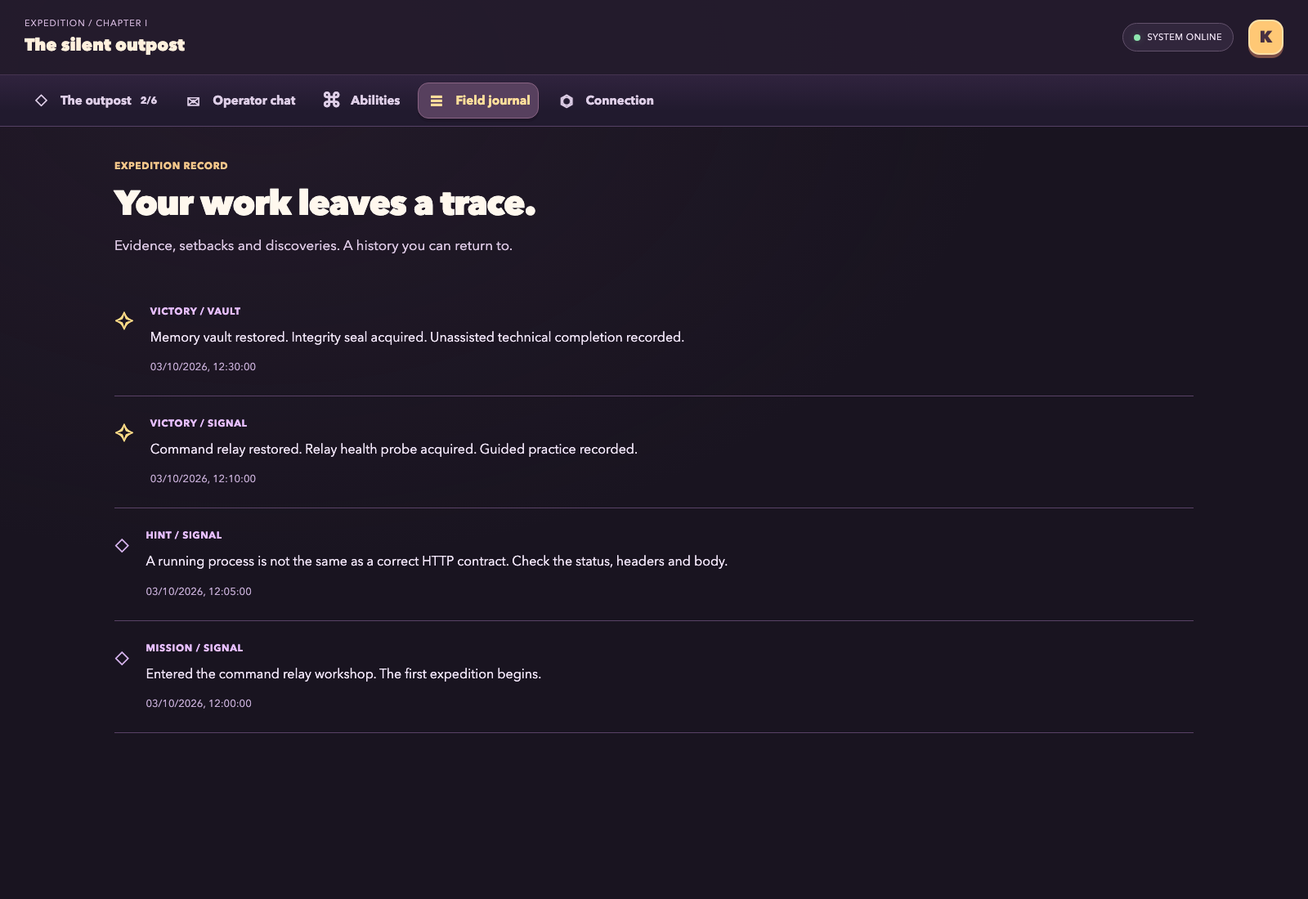
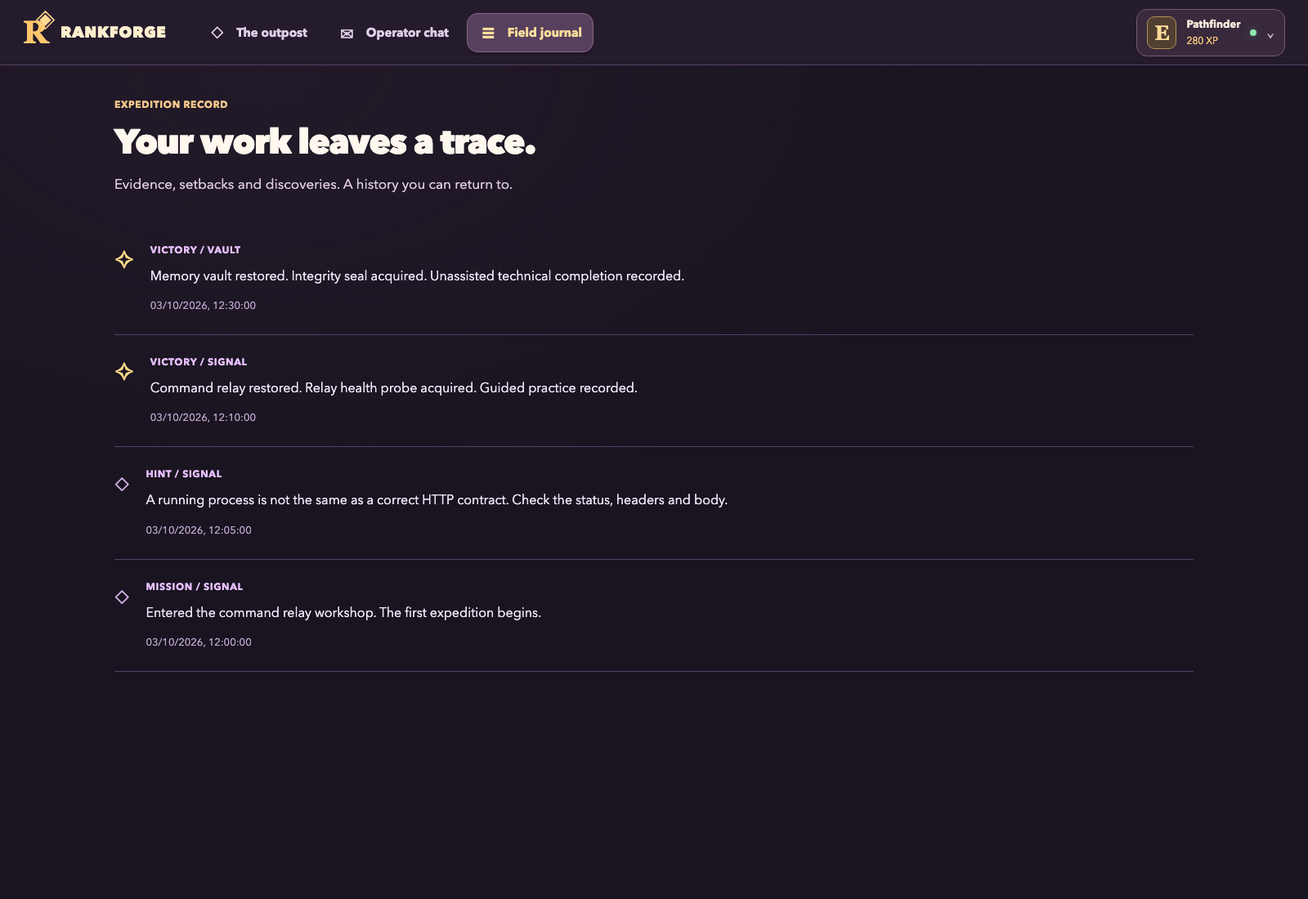
docs: record campaign acceptance and refresh the player guide

diff --git a/scripts/capture-docs.ts b/scripts/capture-docs.ts
@@ -8,6 +8,7 @@ import { createApp } from '../server/app.js'
 import { root } from '../server/labs.js'
 import { missions } from '../shared/content.js'
 import type { MissionView, Snapshot } from '../shared/types.js'
+import { currentContractVersion } from '../shared/contracts.js'
 
 // Documentation fixtures only. No account, learner files or existing conversation is read.
 const time = '2026-10-03T12:30:00Z'
@@ -17,7 +18,7 @@ const demo: Snapshot = {
     status: index < 2 ? 'completed' : index < 4 ? 'available' : 'locked',
     workspace: index < 2 ? `/demo/workspaces/${mission.id}` : null,
     hintsUsed: index === 0 ? 1 : 0,
-    checks: index === 0 ? { passed: true, supported: true, checkedAt: time, output: '', checks: [
+    checks: index === 0 ? { passed: true, supported: true, contractVersion: currentContractVersion, checkedAt: time, output: '', checks: [
       { name: 'GET /health returns the relay contract', passed: true, detail: 'Demonstration result: HTTP 200 and the expected JSON.' },
       { name: 'Query parameters preserve the route', passed: true, detail: 'Demonstration result: /health?probe=1 remains a health request.' },
       { name: 'Unknown routes return 404', passed: true, detail: 'Demonstration result: an unknown path is not reported as healthy.' },
@@ -52,7 +53,9 @@ const address = reservation.address()
 if (!address || typeof address === 'string') throw new Error('Could not reserve a documentation port.')
 const port = address.port
 await new Promise<void>((resolve) => reservation.close(() => resolve()))
-const { app } = await createApp({ home, port, launchEditor: async () => { throw new Error('Documentation capture must not open an editor.') } })
+const { app, store } = await createApp({ home, port, launchEditor: async () => { throw new Error('Documentation capture must not open an editor.') } })
+for (const id of ['signal', 'vault']) store.saveCheck(id, { contractVersion: currentContractVersion, checkedAt: time, passed: true, supported: true, output: '', checks: [{ name: 'Documentation fixture', passed: true, detail: 'Synthetic illustration, not a live evaluation.' }] })
+demo.progression = store.snapshot(demo.connection).progression
 let browser: Awaited<ReturnType<typeof chromium.launch>> | undefined
 try {
   const url = await app.listen({ host: '127.0.0.1', port })
@@ -71,19 +74,21 @@ try {
   await page.screenshot({ path: path.join(output, 'outpost.png') })
   await page.getByRole('button', { name: '▦ Cards', exact: true }).click()
   await page.getByLabel('Expedition overview', { exact: true }).screenshot({ path: path.join(output, 'cards.png') })
-  await page.getByLabel('Expedition controls').screenshot({ path: path.join(output, 'controls.png') })
-  await page.locator('.mission-panel').screenshot({ path: path.join(output, 'quest.png') })
+  await page.locator('.topbar').screenshot({ path: path.join(output, 'controls.png') })
+  await page.locator('.mission-panel').screenshot({ path: path.join(output, 'quest.png'), style: '.topbar { visibility: hidden; }' })
   await page.getByRole('button', { name: 'Operator chat', exact: true }).click()
   await expect(page.locator('.conversation table')).toBeVisible()
   await page.screenshot({ path: path.join(output, 'chat.png') })
-  await page.getByRole('button', { name: 'Abilities', exact: true }).click()
-  await expect(page.getByRole('heading', { name: 'Earned through experience.' })).toBeVisible()
+  await page.getByLabel('Player profile', { exact: true }).click()
+  await page.getByRole('button', { name: 'Skills & rewards', exact: false }).click()
+  await expect(page.getByRole('heading', { name: 'Skills & rewards' })).toBeVisible()
   await page.screenshot({ path: path.join(output, 'abilities.png') })
   await page.getByRole('button', { name: 'Field journal', exact: true }).click()
   await expect(page.getByRole('heading', { name: 'Your work leaves a trace.' })).toBeVisible()
   await page.screenshot({ path: path.join(output, 'journal.png') })
   demo.connection.signedIn = false
   await page.reload()
+  await page.getByLabel('Player profile', { exact: true }).click()
   await page.getByRole('button', { name: 'Connection', exact: true }).click()
   await expect(page.getByRole('button', { name: 'Connect ChatGPT', exact: true })).toBeVisible()
   await page.screenshot({ path: path.join(output, 'connection.png') })

diff --git a/docs/COURSE-ROADMAP.md b/docs/COURSE-ROADMAP.md
@@ -8,11 +8,11 @@ There are **86 missions**: **68 core**, **12 optional foundations**, and **6 opt
 
 | Status at this planning baseline | IDs | Count | Meaning |
 | --- | --- | --- | --- |
-| Implemented labs | I01–I06 | 6 | Existing `signal`, `vault`, `gateway`, `echo`, `ledger`, `recovery` workspaces/checkers; implementation is not proof of fairness, mastery or live tutor quality |
-| Next candidate block, unimplemented | D01–D03 | 3 | Small requirements, capacity and contract labs recommended for authoring after the UI and six-mission audit have their own acceptance evidence |
-| Remaining proposal, unimplemented | F01–F12, D04–D06, B01–B08, T01–T04, S01–S06, O01–O08, L01–L08, A01–A08, W01–W10, M01–M06, C01–C04 | 77 | No new starters, validators, unlocks, language routing or integrated campaign are supplied by this document |
+| Implemented catalog labs | I01–I06, D01–D03 | 9 | Original outpost plus `briefing`, `capacity`, `contract`; see the actual acceptance records, not a mastery claim |
+| Next design block, unimplemented | D04–D06 | 3 | Service boundaries, an evidence-backed decision and a changed requirement; free architecture judgement stays formative |
+| Remaining proposal, unimplemented | F01–F12, B01–B08, T01–T04, S01–S06, O01–O08, L01–L08, A01–A08, W01–W10, M01–M06, C01–C04 | 74 | Proposed authoring units, not shipped labs |
 
-All 80 additions need implementation and validation. The UI work and fairness audit are separate workstreams; this document does not claim they have passed. Existing acceptance records describe earlier runs, not a fresh run of this catalog. The planning IDs do not rename runtime missions or modify learner progress.
+77catalog missions still need implementation and validation. The separate optional `http-trial` implements HTTP transfer after Signal+Gateway and is not counted among the86catalog entries. It does not gate the main route. See [Acceptance](ACCEPTANCE.md), [guild evidence](ARCHITECT-ACCEPTANCE.md), [mission audit](MISSION-AUDIT-2026-10-06.md) and [reward/trial evidence](PROGRESSION-ACCEPTANCE.md) for observed results. Planning IDs do not rename runtime missions or reset progress.
 
 The target learner has substantial iOS experience and some API/SQL/backend experience. Python, deeper database work, quantitative reasoning and operations must be diagnosed separately. New programmers receive the optional entry workshop, with explanations and small guided attempts; they are not expected to infer SQL, Python or terminal skills from a later failure. All player-facing material is English. A lower English band changes scaffolding, not engineering expectations or the correctness contract.
 
@@ -59,7 +59,7 @@ The order deliberately introduces contracts and a simple design before more back
 
 Each row provides an objective, a concrete artifact and an executable verification target. The final column contains **Alt** (valid alternative), **Fail** (negative/failure evidence) and **Transfer** (a changed input or situation). Transfer cases are authored under the same visible contract or introduced as a new ticket with an explicit contract delta; they never add hidden requirements after submission.
 
-For planned missions, the checks are a specification for future checkers, not results. Except for I01–I06, no row is runnable yet. For existing missions, the table summarizes the intended public behavior and acceptance direction; the actual source, published brief and fairness-audit evidence must resolve any mismatch. Design review notes are formative wherever a row says `review`; only the stated executable claim receives a deterministic verdict.
+For planned missions, the checks are a specification for future checkers, not results. I01–I06 and D01–D03 now have runnable labs. The table summarizes intended public behavior; source, published briefs and release evidence resolve any mismatch. Design review notes are formative wherever a row says `review`; only the stated executable claim receives a deterministic verdict.
 
 ## Entry workshop — optional foundations (12)
 
@@ -95,7 +95,7 @@ Language goal: ask a precise question, distinguish "saved" from "running", and r
 
 The added F dependencies describe entry capabilities for the proposed course, not new locks on current saves. Language goals remain symptom/action/evidence, request path, cause/effect, expected/observed and handover. Fairness review must separate required outcomes, deliberate starter defects and optional learning material in all six labs.
 
-## II — The architect's guild (6 planned)
+## II — The architect's guild (3 implemented, 3 planned)
 
 | ID / mission | Prerequisites | Objective | Artifact | Verification | Alternative, failure and transfer evidence |
 | --- | --- | --- | --- | --- | --- |
@@ -237,7 +237,11 @@ The capstone is a bounded vertical slice of the same system, not a request to bu
 
 Language goal: give a concise handover and answer a challenge using evidence. Rank records demonstrated capabilities and support used, not professional seniority. An unavailable human design reviewer leaves review pending; it does not make model praise a certificate or prevent an already verified technical result from being recorded.
 
-## Next candidate block
+<a id="next-candidate-block"></a>
+
+## D01–D03 authoring specification (now implemented)
+
+The following describes the specification used to author the three implemented guild labs. Runtime interfaces and exact bounds are published in their field manuals. D01 checks structural traceability; D02 checks arithmetic; D03 checks an actual consumer probe. They do not automatically certify free-text architecture quality. Next catalog authoring starts at D04–D06.
 
 Recommend **D01 → {D02, D03}**, three small independently executable labs using Python standard library, local JSON and supplied loopback HTTP fixtures. They extend the first chapter into system design without requiring a subjective architecture judge, a new backend framework or heavy infrastructure. F04/F05/F10 are optional just-in-time support for file/test/units gaps; they are not compulsory repeats for the owner. Scaffold the runner and file formats so the problem is requirement reasoning, arithmetic or contract checking, not guessing how to launch a lab.
 
@@ -338,4 +342,4 @@ The following ten sources were read via background HTTP/documentation tools on 2
 
 The Council of Europe descriptor page returned HTTP 403 in this session; the accessible Europass descriptor page above was used instead. Reference coverage is not an endorsement and no source exercises or proprietary course text have been copied. Before redistributing external examples, datasets or diagrams, review their specific licenses; this roadmap authors its own missions rather than treating linked teaching materials as reusable assets.
 
-Unresolved implementation work includes all 80 new labs, real resource profiles, diagnostic/skip routing, safe artifact continuity, architecture-evidence states and the future release records. Beginner pacing, full-course effectiveness, tutor accuracy, English calibration and live ML utility have not been measured. There is no claim of new build/test/E2E runs, live provider evaluation, completed fairness audit or production deployment from this documentation-only work.
+Remaining work includes77catalog labs, their resource profiles, diagnostic/skip routing, safe artifact continuity and richer architecture-review states. Beginner pacing, full-course effectiveness, tutor accuracy, English calibration and live ML utility have not been measured. The original roadmap was a documentation-only proposal; the later implemented slice has its own linked build/test/E2E evidence. There is no production deployment or live provider-quality claim.

diff --git a/docs/SESSION-2026-10-06.md b/docs/SESSION-2026-10-06.md
@@ -2,6 +2,10 @@
 
 ## Resume here
 
+Latest checkpoint: **05:48 MSK**. Code checkpoint `e1d9a9efc044e049a3692da549d1dc458307321b`; all current slice implementation and acceptance are complete. Build +152/152 Node tests +9/9 headless E2E passed; Linuxarm64 Node24.21.0/Python3.11.2 build+152tests passed. Preview is running on4173, PID67130, with10quests and the infographic at `/progression.html`. Old6mission state,120XP and25exchanges were compared before/after restart and remained identical; no live tutor request was sent. Refresh the owner tab to load the new bundle.
+
+Next catalog work: D04–D06 (boundaries, ADR/experiment, changed requirements), followed by the service workshop;77catalog missions remain planned. The reward infographic has30proposals; current shipped rewards are the smaller chip/frame/bonus slice. Future harness spending, deeper skill tiers, voice and live tutor-quality calibration are not implemented or claimed.
+
 Started 01:55 MSK in `~/rankforge`, branch `main`, baseline `2525e01`.
 Pre-existing untracked `reports/` and `research_notes/` belong to the owner. Pre-existing `node_modules/`, `dist/` and `extension/dist/` support the local application; preserve them. Learner saves/workspaces are outside the checkout and must not be reset.
 
@@ -28,3 +32,27 @@ The owner requested autonomous work, in this order:
 - `npm run docs:capture` PASS with eight synthetic-only screenshots. Map, cards, controls, mission and chat visually inspected. Documentation now describes explicit editor opening and the current-contract source.
 - Audit corrections and scoped evidence: [MISSION-AUDIT-2026-10-06.md](MISSION-AUDIT-2026-10-06.md). Real Docker/nginx acceptance exercised seven configurations; both valid routing alternatives passed nine checks, wrong candidates were rejected, owned resources removed.
 - Whole-course proposal written in [COURSE-ROADMAP.md](COURSE-ROADMAP.md): 86 catalog missions, 68 core + 12 optional foundations + 6 optional ML. Existing six remain the implemented baseline. Next: commit checkpoints, then author the three-mission requirements/capacity/contract block with independent executable checks.
+
+### 04:10 MSK — owner feedback and new scope
+
+- Saved checkpoints: `8c528df` mission contracts, `ab7e277` first UI layout, `82c07d1` roadmap/plan. A cold review found remaining deferred-FK/truthy-input holes; fixed in working files with regression evidence in the audit. It also found legacy evidence presented as current and navigation autofocus/hint regressions; UI focus/hint fix is in the current build, evidence versioning remains to do.
+- Owner rejected the middle-page navigation after trying it: it separates the map from the mission. Current working UI puts stable navigation at the top and compact rank/XP/profile on the right; map is directly followed by mission. `npm run build` and six headless E2E PASS. Preview bundle rebuilt for the owner; new server implementation changes need a deliberate restart later.
+- Owner clarified that abilities must be a deep gradual progression mechanic, not large cards claiming mastery after one quest. Requests: comprehensive visual infographic of reward/skill ideas with practical/visual effects; implement rewards and skill progression. Chip idea is a reserve of tutor charge, with future harness controlling model expense/answer length. No model-spending harness is requested in this slice.
+- D01–D03 standalone authored in new files, 46 tests passed on Python3.14/3.11; NOT yet registered in actual app. Cold review found HTTP id/item checks, fractional capacity inputs, chunked request bodies and timeout-parameter gaps. Repair before integration. `docs/ARCHITECT-ACCEPTANCE.md` holds the exact handoff and prior failed attempt.
+- Next work: deliver infographic, finalize revised navigation, integrate corrected three-lab block, then first real reward/skill/bonus-quest slice, full checks and checkpoints. Preserve `reports/`, `research_notes/`, existing dependencies/builds and all learner artifacts.
+
+### 05:13 MSK — infographic, registered quests and real reward mechanics
+
+- `public/progression.html`: 30 ideas/6 families; interactive8-step example/3skill tracks/bonusroute/cosmeticpreview. Standalone10/10 checks, zero external requests, screenshots inspected. Actual service CSP uses only that page's script hashes; normal app CSP stays unchanged. HTTP-hosted interaction passed E2E.
+- Registry now has nine core missions (original6 + guild3) and one optional HTTP trial. Real API and headless browser loops passed all four new starters/fixes; bonus unlock/current-contract evidence/repeat awards/equip/reload verified. Node149/149; first combined command hit120s after Node success, so E2E was run separately8/8, not inferred.
+- Rewards:4branches×3boundedcheckpoints, finite13chips/140gamecharge across current catalog,2equippableframes,HTTPApplied unlocks real paginationtrial. No modelchargeconsumption. Previouscompletion/XP retained; oldchecks displayed as historical without current-objective ticks. Prompt receives currentcontract and legacy-evidence flag. Quota pauses only tutoring; local preparation/checks/static hints continue and preserve pending answer.
+- Independent review closed4guild boundaries (id/item/field checks,fractionalbytes,chunkedPOST,timeoutbudget) and2firstchapter holes (deferredFK,truthywrongrecordshapes). HTTPtrial final3review boundaries fixed; targeted34/34PASS. Latest focus/hint/legacyUI regressions now have a new E2E case awaiting final run.
+- Remaining current slice: final integration suite, Linux check, freshdocs/screenshots,checkpointcommits, restart ownedpreview ifidle, vaultsave/cleanup. Fullroadmap beyondthese10runtimequests remains proposed; do not claim86shipped.
+
+### 05:48 MSK — verified release and preview updated
+
+- Final current source: build PASS,152Node tests PASS,9headlessChromiumE2E PASS. Full real gateway acceptance was already complete; no extra unrelated Docker services or GUI were touched. Linuxarm64 same-source build+152tests PASS with Node24.21.0/Python3.11.2 under2CPU/2GiB. Owned image tag/container/build context removed.
+- Eight documentation screenshots recaptured from synthetic data. Map, compact nav, current workspace and progression were visually inspected; the focused mission screenshot suppresses the sticky header solely during capture so it cannot obscure the panel.
+- Preview migration: no pending/processing jobs before graceful termination of ownedPID28818. NewPID67130 serves current app+infographic200 with page-scoped script hashes. Original learner mission fields and full25exchange array match before/after, XP stays120; no new skill rewards were fabricated from legacy results.
+- Browser test evidence moved outside checkout to `/var/folders/tj/_9g91tx120qfjzwmw5zxc76w0000gp/T/opencode/rankforge-final-20261006-rmkQ5h/browser`. Session-created `test-results` removed. Pre-existing dependencies/builds retained for requested running preview. `reports/` and `research_notes/` remain the owner's untouched untracked directories.
+- Local commits: `8c528df` initial mission audit; `ab7e277` full-width switchable overview; `82c07d1`86-mission roadmap; `d4efe28`30-idea infographic; `7af7df3`deferred/schema boundary follow-up; `e1d9a9e`guild/trial/skills/rewards/versioned evidence/topnav. Documentation handoff follows separately. No push or PR was performed.

diff --git a/docs/TOUR_RU.md b/docs/TOUR_RU.md
@@ -10,13 +10,14 @@
 
 - **Карта во всю ширину:** здания соответствуют заданиям. Связи показывают последовательность и зависимости. После успешной проверки сектор меняется визуально.
 - **Map / Cards на самой карте:** два представления одних заданий. Они заменяют друг друга; выбранный вид сохраняется после перезагрузки.
-- **Карточка персонажа и меню ниже карты:** ранг и опыт за выполненные задания. Это игровые показатели, а не профессиональный грейд.
+- **Навигация сверху, компактный профиль справа:** ранг и опыт всегда под рукой, а подробности и **Skills & rewards** находятся в раскрывающемся меню. Это игровые показатели, а не профессиональный грейд.
 - **The outpost:** возвращает на карту.
-- **Рабочее пространство ниже меню:** нажатие на сектор или **View quest** переводит к условиям выбранного задания. Даже закрытую миссию можно предварительно прочитать; VS Code открывается отдельной кнопкой.
+- **Рабочее пространство сразу ниже карты:** нажатие на сектор или **View quest** переводит к условиям выбранного задания. Даже закрытую миссию можно предварительно прочитать; VS Code открывается отдельной кнопкой.
+- **Explore:** переключает главы. Бонусный HTTP trial показан отдельной веткой, основной маршрут от него не зависит.
 
 ![Альтернативное представление тех же заданий карточками](images/cards.png)
 
-![Профиль, навигация и языковой прогресс ниже обзора](images/controls.png)
+![Постоянная навигация и компактный профиль](images/controls.png)
 
 В демонстрационном сохранении выполнены две миссии. В твоей первой сессии база ещё будет ждать восстановления.
 
@@ -50,15 +51,17 @@
 
 Наставник видит сохранённые текстовые файлы учебной папки с путями и временем сохранения. Несохранённый буфер редактора и живой терминал ему не видны: сохрани код и приложи относящийся к вопросу вывод. Указания и команды находятся в разных визуальных блоках, чтобы случайно не вставить пояснение в терминал.
 
-## 4. Abilities — приобретённые умения и дальнейший путь
+## 4. Skills & rewards — постепенный прогресс и его последствия
 
 ![Экран навыков с артефактами и видами подтверждения](images/abilities.png)
 
-Каждая карточка связывает игровой артефакт с практическими навыками. Она показывает, было ли выполнение с записанной помощью или без неё. Это история наблюдений, не экзамен с контролем всех внешних источников.
+Ветки связывают разные проверенные задания. Один исправленный HTTP endpoint — первый результат, а не освоение HTTP. Связка Signal и Gateway открывает HTTP Applied, рамку и дополнительное испытание. Панель показывает, какой результат подтверждён, что требуется дальше и какие награды получены. Помощь не уменьшает награду; самостоятельность отмечается отдельно в пределах записанной помощи.
+
+Чипы хранят игровой заряд для будущего harness; сейчас он не расходуется. Повторный Verify не создаёт новые чипы. Рамки можно экипировать, снять и сохранить выбор после перезагрузки. История отдельных завершений убрана в свёрнутый **Practice record**. Старые completion/XP сохраняются; для новых skill-checkpoints нужны проверки текущего контракта.
 
 Ниже находится языковой прогресс и будущие главы. Уровень языка растёт отдельно от технической сложности. Сейчас реализована письменная практика; чтение текста не засчитывается как проверка произношения или понимания речи на слух.
 
-Раздел будущих глав включает system design, нагрузку, эксплуатацию, Kafka, Data Engineering и базовый ML. Пометка **Curriculum planned** означает план, а не уже доступную игровую миссию.
+Вторая глава уже содержит три задания: требования, расчёт нагрузки и проверку HTTP-контракта. Свёрнутый список дальнейших глав остаётся планом. Отдельная [интерактивная инфографика](../public/progression.html) показывает30идей наград и пример главы из8заданий; это эскиз, текущая первая глава содержит6основных заданий и optional trial.
 
 ## 5. Field journal — история твоей работы
 

diff --git a/docs/ACCEPTANCE.md b/docs/ACCEPTANCE.md
@@ -1,5 +1,19 @@
 # Acceptance record
 
+## Current checkpoint — 2026-10-06
+
+- macOS arm64 / Node25.8.1 / Python3.14.5: fresh `npm run build` PASS, **152/152 Node tests PASS**, **9/9 headless Chromium E2E PASS**, 0 skips. The initial149-test run exceeded its enclosing120-second shell deadline after Node completed; E2E was then run separately. Final152+9 ran to completion with a300-second deadline.
+- Linux arm64 / Node24.21.0 / Python3.11.2: the same production build and **152/152 Node tests PASS**, 0 skips, in the existing reproducible Docker recipe with2CPUs/2GiB. Only required source paths were copied to the temporary build context; owner research, saves and credentials were excluded. The owned image tag and `--rm` containers were removed. No claim of fresh amd64, desktop Linux auth/editor or Linux browser acceptance.
+- UI: full-width exclusive Map/Cards, persistent choice, chapter selection, preview without IDE launch, fixed top navigation and compact right-hand profile. Selected mission directly follows the map. Checked1024/1280/1600 without overflow, current/legacy evidence distinction, delayed-check focus protection, hint/draft/history retention and short input viewports.
+- Four new real labs: requirements traceability, unit-aware capacity, consumer HTTP probe and optional HTTP pagination trial. Each starter fails; distinct correct implementations pass; plausible wrong implementations fail. Guild HTTP tests exercise direct/table-style fixtures, field presence/value, encoded/chunked request bodies, duplicate effects and bounded timeout/unavailable distinctions. Trial checks include complete framing, trailing whitespace,16KiB bound and unchanged snapshots.
+- Real browser → API → owned workspace → starter FAIL → saved reference → PASS for all four new labs; repeated verification does not duplicate XP or charge. Earlier chapter prerequisites in that browser scenario are explicitly controlled state fixtures. First-chapter gateway has its separate real Docker/nginx evidence:7configurations,2valid variants each9/9, invalid variants rejected, owned Compose resources removed.
+- Reward/state checks cover4branches,12boundedcheckpoints,13one-timechips/140gamecharge,2frames and1bonusunlock, transactional rollback, legacy migrations, preserved pending answers and4concurrent writer processes. Current local practice continues while tutor submissions are paused; pending answers survive and no paid fallback exists. Charge spending is not implemented.
+- Russian infographic:30ideas/6families, standalone10/10 interaction checks plus actual service CSP/browser acceptance. The document is a design proposal; the smaller implemented mechanics have separate evidence.
+
+Detailed records: [mission audit](MISSION-AUDIT-2026-10-06.md), [guild](ARCHITECT-ACCEPTANCE.md), [skills/trial](PROGRESSION-ACCEPTANCE.md), [session](SESSION-2026-10-06.md). New runtime total: **9core quests +1optional trial**. Catalog total:86proposed missions,9of them implemented;77remain planned. The extra trial is outside that count. Source formulas and alternative solutions were reviewed; no live tutor calibration or independent human learner study is claimed.
+
+## Historical records
+
 Checkpoint: 2026-10-03, 05:54 MSK. macOS arm64, Node25.8.1, Python3.14.5, Docker29.1.2 / Compose2.40.3, VS Code1.138.0. User authorization and GUI interaction are intentionally not part of the unattended run.
 
 ## Verified on the actual implementation
@@ -37,7 +51,7 @@ The owner reported successful game startup, GPT connection and opening VS Code o
 
 ## Product boundaries
 
-Six first-chapter labs are executable; later chapters are a curriculum blueprint. Language adaptation currently changes mission briefings and tutor instructions, with varied follow-up questions. It does not claim every external reference or code comment dynamically changes level. Only written interaction is tracked. Rank is a game progression indicator, not a job grade or language certification.
+At the original October3 checkpoint, six first-chapter labs were executable and later chapters were a blueprint; see the current checkpoint for additions. Language adaptation changes mission briefings and tutor instructions, with varied follow-up questions. It does not claim every external reference or code comment dynamically changes level. Only written interaction is tracked. Rank is a game progression indicator, not a job grade or language certification.
 
 ## Chat workspace and code-context iteration
 

diff --git a/README.md b/README.md
@@ -8,13 +8,15 @@ A personal, local-first engineering learning RPG. Build a living outpost by solv
 
 ![Rankforge outpost — demonstration save](docs/images/outpost.png)
 
-The preview uses synthetic documentation data, not a personal account or real conversation. Switch between map and quest cards inside the full-width overview; profile, navigation and the mission workspace live below it. See the [illustrated tour](docs/TOUR_RU.md) for the workspace, chat, abilities, journal and account connection.
+The preview uses synthetic documentation data, not a personal account or real conversation. Switch between map and quest cards inside the full-width overview; the mission sits directly below it. Navigation and the compact player profile stay at the top. See the [illustrated tour](docs/TOUR_RU.md) for the workspace, chat, skills/rewards, journal and account connection.
 
 The browser is the game, VS Code is the workshop, and the terminal is a real tool. Subscription access uses a direct ChatGPT OAuth adapter; no Codex CLI or paid API fallback is required.
 
 ## Development status
 
-The first chapter has six executable labs, a colorful outpost, durable progress, a subscription adapter and a scoped editor bridge. Future chapters include system design, load, operations, messaging, data engineering and basic ML. [Acceptance](docs/ACCEPTANCE.md) distinguishes automated checks, owner-reported use and remaining language-model calibration.
+Ten labs are executable: six outpost quests, three guild quests (requirements, capacity, consumer contracts) and one optional HTTP transfer trial. Four skill paths connect verified outcomes to one-time charge chips, profile frames and the bonus quest. Charge is banked for a future tutor harness; it is not spent or converted into tokens/questions here. The [86-mission course roadmap](docs/COURSE-ROADMAP.md) describes the wider proposed course, not 86 shipped labs. [Acceptance](docs/ACCEPTANCE.md) records real checks and their limits.
+
+An interactive [reward/progression design infographic](public/progression.html) explores 30 ideas in Russian for the owner. Open `/progression.html` on the running local service, or open the standalone file. The actual game remains in English.
 
 ## Install and run
 
@@ -108,7 +110,7 @@ Both arm64 and amd64 builds/tests were exercised. This container check does not 
 - Technical outcomes come from actual lab checks, not a model's praise.
 - English feedback accepts free phrasing and preserves quoted evidence.
 - Practice completion and independent mastery are separate.
-- Quota exhaustion saves the submitted answer and pauses evaluation; resume never duplicates rewards.
+- Quota exhaustion saves the submitted answer and pauses tutoring; local labs and static hints remain available. Resume never duplicates rewards.
 - Each mission has its own workspace. Switching never overwrites previous work.
 - The local service manages only Rankforge workspaces; existing projects and Docker contexts are preserved.
 - Reading/writing evidence does not claim speaking or listening proficiency.
@@ -119,6 +121,9 @@ Both arm64 and amd64 builds/tests were exercised. This container check does not 
 - [First-run handoff](docs/HANDOFF.md)
 - [Decision log](docs/decisions-2026-10-03.md)
 - [Curriculum](docs/CURRICULUM.md)
+- [Complete course catalog](docs/COURSE-ROADMAP.md)
+- [Skills and reward design](docs/PROGRESSION-DESIGN.md)
+- [Current session handoff](docs/SESSION-2026-10-06.md)
 - [Third-party notices](THIRD_PARTY_NOTICES.md)
 
 Public source, local execution. Each person uses their own account and saves; this repository does not expose a hosted tutor or a shared subscription gateway. Desktop macOS is the first personally exercised target; Linux core-runtime checks are described above. Native Windows desktop integration has not been validated.

diff --git a/docs/CURRICULUM.md b/docs/CURRICULUM.md
@@ -6,7 +6,7 @@ The learner is an experienced iOS developer with some backend practice and famil
 
 The first two missions act as low-stakes practical diagnostics. Explain unfamiliar Python syntax using the included field manuals. Existing knowledge can be demonstrated directly; there is no requirement to sit through introductory lectures. A successful lab is evidence of that particular outcome, not a professional grade or comprehensive subject mastery.
 
-The complete proposed sequence is in [Course roadmap](COURSE-ROADMAP.md): **86 bounded missions**, comprising 68 core missions, 12 optional entry foundations and 6 optional ML missions. Six core labs already exist; all 80 additions remain unimplemented in this planning baseline. The next recommended authoring block is three deterministic requirements/capacity/contract missions, after the separate first-chapter fairness audit and UI acceptance. This document does not certify those other workstreams as complete.
+The complete proposed sequence is in [Course roadmap](COURSE-ROADMAP.md): **86 bounded missions**, comprising 68 core missions, 12 optional entry foundations and 6 optional ML missions. Nine catalog labs are implemented: I01–I06 and D01–D03. Another77catalog missions remain planned. One additional optional HTTP trial, outside that86count, makes10runtime quests. [Current acceptance](ACCEPTANCE.md) and the [guild release record](ARCHITECT-ACCEPTANCE.md) distinguish executable contracts from broader design judgement.
 
 For a new programmer, foundations provide a route into Python, SQL, terminal work and quantitative reasoning. They are optional by demonstrated capability, not because the later course silently assumes those skills. An experienced learner can challenge the relevant outcome directly or use existing evidence; unfamiliar Python syntax does not imply unfamiliar programming. The proposed diagnostic routing and skip records are not shipped functionality.
 
@@ -41,7 +41,7 @@ The [mission catalog and prerequisite DAG](COURSE-ROADMAP.md#prerequisites-and-o
 | --- | --- | --- | --- |
 | Optional entry workshop | F01–F12, 12 | Python from first functions, debugging/tests, Git, HTTP, SQL, units, processes and containers | Enter only where a capability is missing; ask a specific question and describe a check |
 | I — The silent outpost | I01–I06, 6 implemented | HTTP, relational integrity, gateway routing, idempotency, exact ETL and recovery | The existing diagnostic/repair loop; narrate evidence |
-| II — The architect's guild | D01–D06, 6 planned | Requirements, capacity arithmetic, executable contracts, boundaries, ADR and changed requirements | Design before adding components; clarify, compare and justify |
+| II — The architect's guild | D01–D03 implemented; D04–D06 planned | Requirements, capacity arithmetic, executable contracts, then boundaries, ADR and changed requirements | Design before adding components; clarify, compare and justify |
 | III — The service workshop | B01–B08, 8 planned | A maintainable API, persistence, pagination, transactions, concurrent writers and migrations | Evolve the same delivery service; explain invariants |
 | IV — Evidence and trust | T01–T04 + S01–S06, 10 planned | Unit/integration/contract/fault tests; authentication, authorization, secrets and abuse limits | Protect other users' data and challenge a passing test; report a counterexample |
 | V — Reliable operations | O01–O08, 8 planned | Reproducible configuration/builds, CI, telemetry, SLOs, rollout, restore and incident response | Operate the service before scaling it; give an actionable handover |

diff --git a/docs/HANDOFF.md b/docs/HANDOFF.md
@@ -1,4 +1,8 @@
-# First chapter handoff — 2026-10-03
+# Rankforge handoff — updated 2026-10-06
+
+Current session: [checkpoint and next work](SESSION-2026-10-06.md). The app now includes9core quests and1optional trial, top navigation/compact profile, skills/rewards and an interactive [design infographic](../public/progression.html). Use `/progression.html` on the running server. The broader86-mission catalog is a proposal, not a completed course.
+
+Latest acceptance: build,152Node tests,9headless browser scenarios; Linuxarm64Node24/Python3.11 build+152tests. Current-result details and limits are in [ACCEPTANCE.md](ACCEPTANCE.md). Existing learner code/notes, completion and XP are retained; old checks remain historical until a current Verify.
 
 ## Ready to try
 
@@ -12,7 +16,7 @@ npm run build
 npm start
 ```
 
-Open `http://127.0.0.1:4173` in a desktop Chromium browser. The service starts quietly and does not open windows automatically. Build/install artifacts have been removed from the source checkout after verification, so the first two commands are intentional.
+Open `http://127.0.0.1:4173` in a desktop Chromium browser. The service starts quietly and does not open windows automatically. The current owner preview keeps the pre-existing dependency/build directories; a fresh clone still needs the first two commands.
 
 For a new machine, follow [Install and run](../README.md#install-and-run), including prerequisites, cloning the public repository and enabling the `code` command. Each person connects their own account; credentials and progress are local and are not shipped through GitHub.
 
@@ -40,8 +44,8 @@ Detailed distinctions and versions: [ACCEPTANCE.md](ACCEPTANCE.md). Decisions an
 
 - The owner reported successful account connection and opening VS Code. Real tutor-response quality, editor focus alongside work windows, and save/cancel behavior still need the corresponding checks above.
 - The implemented language modality is writing. Listening/speaking and voice integration need a separate iteration.
-- Only Chapter I is executable. Six further chapters have a concrete curriculum blueprint in [CURRICULUM.md](CURRICULUM.md), including the system-design track added after owner feedback. Design foundations start after Chapter I and return in later practical chapters; ML is not a prerequisite.
+- Chapter I, the first three guild quests and an optional HTTP trial are executable. Remaining catalog entries are in [CURRICULUM.md](CURRICULUM.md) and [COURSE-ROADMAP.md](COURSE-ROADMAP.md). Next design work is D04–D06; optional foundations and deeper branches remain planned. ML is not a core prerequisite.
 - Game ranks and language thresholds are provisional learning mechanics, not professional or CEFR certification. “Unassisted” reflects recorded in-game assistance, not a proctored exam or knowledge of external help.
 - No lab/service process or newly tagged QA image is intentionally left running. Existing user projects, Docker contexts, VPN and work windows were preserved. Public image/build caches may remain in Docker's normal cache.
 
-There is no automatic API-credit fallback. On subscription capacity failure, the submitted answer is stored and training pauses. Resume reuses the saved request rather than replaying completed rewards.
+There is no automatic API-credit fallback. On subscription capacity failure, the submitted answer is stored and tutoring pauses. Local preparation, checks and static hints continue. Resume reuses the saved request rather than replaying completed rewards. Chip spending waits for the future bounded harness.

diff --git a/docs/decisions-2026-10-06.md b/docs/decisions-2026-10-06.md
@@ -29,3 +29,33 @@
 **Reason:** A broad dependency map prevents gaps; a small verifiable block avoids treating bulk generated exercises as a finished course. Architecture prose remains formative review, not an automatic correctness claim.
 **Reversal cost:** Edit the proposed catalog; preserve existing IDs and learner artifacts.
 **Location:** `docs/COURSE-ROADMAP.md`, `docs/CURRICULUM.md`.
+
+## Revised navigation after the owner's visual review
+**Chosen:** Supersede the first placement decision: navigation stays in the top bar, compact profile/XP on the right, selected mission directly below the map. Detailed progress moves inside the profile.
+**Reason:** The owner observed that mid-page navigation confused navigation between pages and interrupted the map-to-mission connection.
+**Reversal cost:** UI-only layout change; saves remain unchanged.
+**Location:** `src/App.tsx`, `src/style.css`; owner feedback 06.10.
+
+## Skills and rewards rather than completion cards
+**Chosen:** Design gradual, evidence-linked branches with rewards and an actual bonus quest; keep chip collection separate from future model-charge spending. Show proposal breadth in a dedicated infographic before representing ideas as shipped mechanics.
+**Reason:** The owner explicitly rejected interpreting one completed HTTP exercise as mastery, requested practical progression consequences and asked for implementation plus an infographic.
+**Reversal cost:** Version reward rules and preserve already-earned inventory; proposals may be revised without changing learner artifacts.
+**Location:** Upcoming progression design and acceptance record; current individual check evidence remains the source of truth.
+
+## Tutor quota versus local practice
+**Chosen:** Pause only model submissions/evaluation after a quota or auth failure; deterministic labs and static hints continue, with the pending answer retained.
+**Reason:** Optional communication and future chip mechanics must not prevent technical learning when the tutor is unavailable. No alternate billing/provider path is added.
+**Reversal cost:** Restore UI/API pause gates; no stored data migration is needed.
+**Location:** `server/store.ts`, `server/app.ts`, `src/App.tsx`, `tests/app.test.ts`.
+
+## Historical checks after a contract update
+**Chosen:** Stamp fresh results with a contract version. Preserve old completion/XP, display old reports as historical, and require current verification for new skill evidence.
+**Reason:** An old PASS may not exercise newly clarified persistence/edge cases; presenting it as proof of the new contract is misleading.
+**Reversal cost:** Define an explicit compatibility mapping later; never silently manufacture fresh evidence.
+**Location:** `shared/contracts.ts`, `server/labs.ts`, `src/App.tsx`, `server/rewards.ts`.
+
+## First rewards implementation scope
+**Chosen:** Four narrow three-checkpoint paths, banked one-time chips, two reversible profile frames and an optional HTTP pagination trial. No charge spending, daily penalties, random rewards or model grading gate.
+**Reason:** These have testable practical/visual effects now. The deeper five-tier infographic and its30ideas remain a proposal rather than an implied shipped economy.
+**Reversal cost:** Adjust future grants/rules without deleting earned inventory or evidence; frame selection is reversible.
+**Location:** `shared/progression.ts`, `server/rewards.ts`, `src/ProgressionPanel.tsx`, `docs/PROGRESSION-DESIGN.md`.
